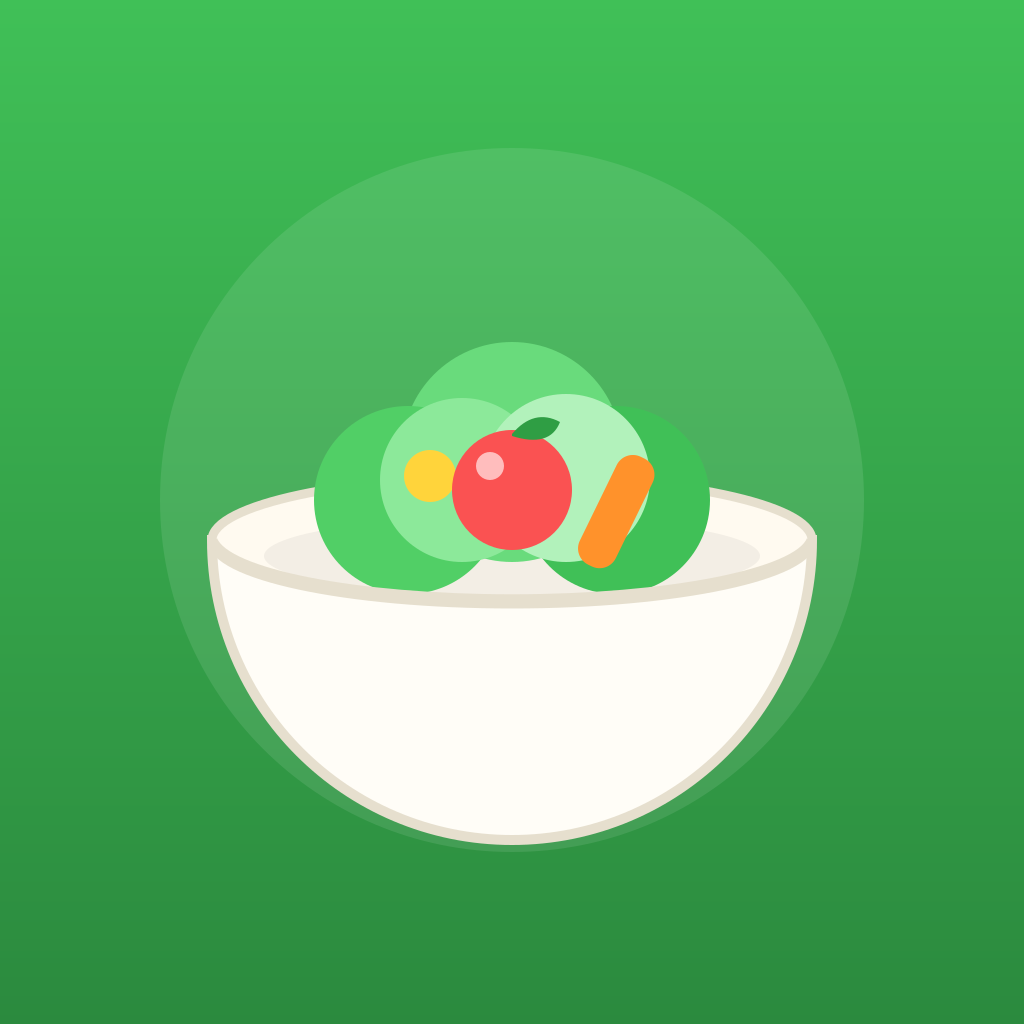
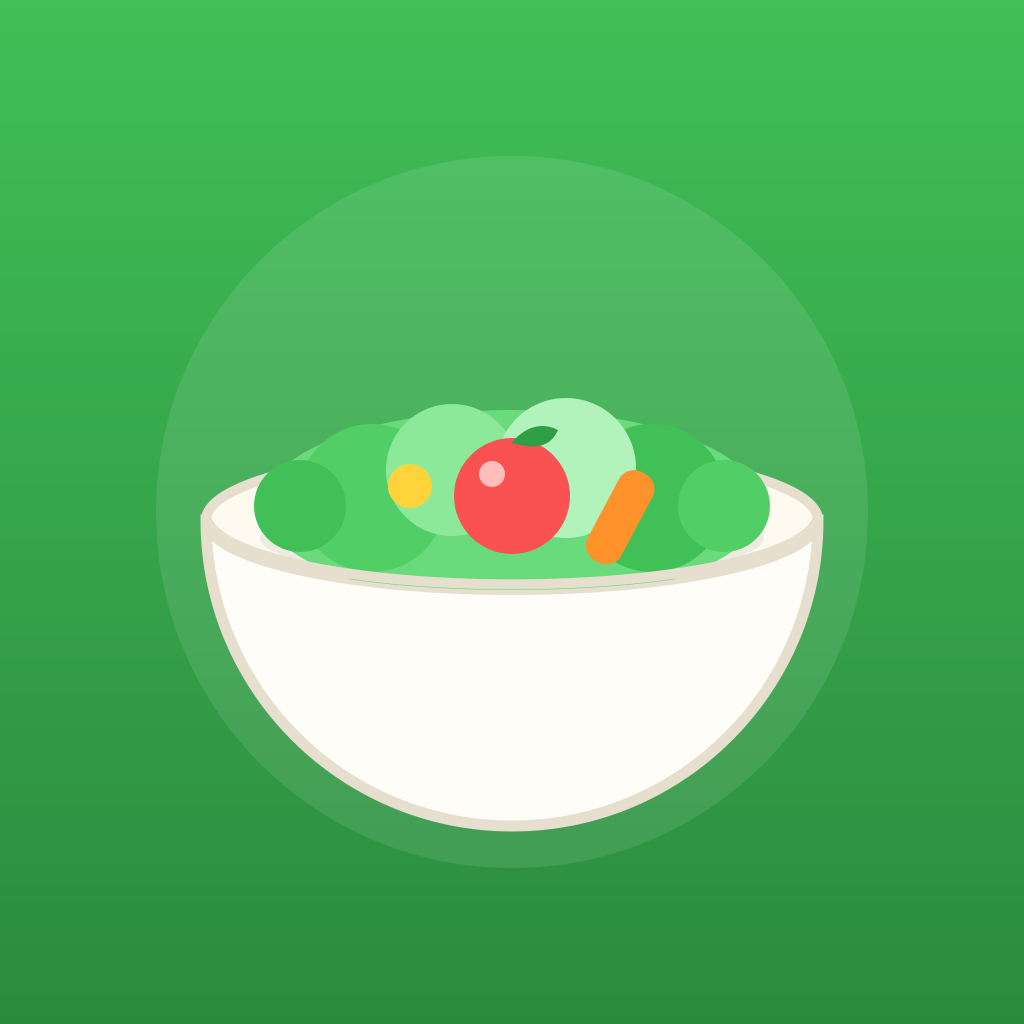
İkon: salata kâseyi dolduruyor (uçma giderildi) + ekstra özellikler
- İkon yeniden çizildi: derin açık kâse, ağzına kadar dolu alçak salata yığını;
  yiyecekler net biçimde kâsenin içinde durur
- Pişirme modu: tarif adımlarına dokununca tamamlandı olarak işaretlenir
- 🎲 Sürpriz: sonuç listesinden rastgele tarif aç
- Planı paylaş: haftalık planı paylaş/kopyala
- sw önbellek v8

https://claude.ai/code/session_01QzPAUaUjR7PLoG6sTmLNvq

Changed region(s): [[0.1875, 0.3125, 0.8125, 0.5938], [0.2188, 0.625, 0.7812, 0.8438]]

diff --git a/public/app.js b/public/app.js
@@ -39,6 +39,8 @@ let favorites = store.get("eviko_favorites", []);
 let shopping = store.get("eviko_shopping", []);
 let prefs = store.get("eviko_prefs", []);
 let history = store.get("eviko_history", []);
+let lastRecipes = [];
+let lastPlan = [];
 
 // ---- API adresi (web'de boş = göreli yol; APK'da ayarlanır) ----
 function apiBase() {
@@ -298,7 +300,9 @@ async function runPlan() {
 
 function renderPlan(data) {
   const days = (data && data.days) || [];
+  lastPlan = days;
   const list = el("plan-list");
+  el("btn-share-plan").classList.toggle("hidden", days.length === 0);
   if (days.length === 0) {
     list.innerHTML = '<div class="list-empty">Plan oluşturulamadı, tekrar dene.</div>';
     return;
@@ -318,6 +322,30 @@ function renderPlan(data) {
   list.querySelectorAll(".plan-card").forEach((c) =>
     c.addEventListener("click", () => openRecipeByTitle(days[Number(c.dataset.index)].title))
   );
+}
+
+// ---- Sürpriz tarif + planı paylaş ----
+el("btn-surprise").addEventListener("click", () => {
+  if (!lastRecipes.length) return;
+  const r = lastRecipes[Math.floor(Math.random() * lastRecipes.length)];
+  openRecipeByTitle(r.title);
+});
+
+el("btn-share-plan").addEventListener("click", sharePlan);
+async function sharePlan() {
+  if (!lastPlan.length) return;
+  const lines = ["📅 Haftalık Yemek Planı (Eviko)", ""];
+  lastPlan.forEach((d) =>
+    lines.push(`${d.day}: ${d.title}${d.description ? " — " + d.description : ""}`)
+  );
+  const text = lines.join("\n");
+  try {
+    if (navigator.share) await navigator.share({ title: "Haftalık Plan", text });
+    else {
+      await navigator.clipboard.writeText(text);
+      toast("Plan kopyalandı 📋");
+    }
+  } catch {}
 }
 
 async function runCalories() {
@@ -393,6 +421,7 @@ function renderResults(data) {
   }
 
   const recipes = data.recipes || [];
+  lastRecipes = recipes;
 
   // Eksik malzemeler (alışveriş listesi için)
   const missing = [...new Set(recipes.flatMap((r) => r.missingCommonIngredients || []))];
@@ -590,6 +619,9 @@ function renderRecipeDetail() {
   };
   el("btn-speak").onclick = () => toggleSpeak(r);
   el("btn-share").onclick = () => shareRecipe(r);
+  modal.querySelectorAll(".step-list li").forEach((li) =>
+    li.addEventListener("click", () => li.classList.toggle("done"))
+  );
   modal.querySelector(".modal-card").scrollTop = 0;
 }
 

diff --git a/public/index.html b/public/index.html
@@ -119,8 +119,13 @@
           <button id="btn-add-missing" class="btn btn-ghost small">🛒 Listeye ekle</button>
         </div>
 
-        <h2 class="recipes-title">Yapabileceğin yemekler</h2>
-        <p class="muted small">Bir yemeğe dokun, adım adım tarifini görelim.</p>
+        <div class="recipes-head">
+          <div>
+            <h2 class="recipes-title">Yapabileceğin yemekler</h2>
+            <p class="muted small">Bir yemeğe dokun, adım adım tarifini görelim.</p>
+          </div>
+          <button id="btn-surprise" class="btn btn-ghost small">🎲 Sürpriz</button>
+        </div>
         <div id="recipes" class="recipe-grid"></div>
       </section>
 
@@ -178,6 +183,7 @@
         </div>
         <p class="muted small">Bir güne dokun, tarifini aç.</p>
         <div id="plan-list" class="plan-list"></div>
+        <button id="btn-share-plan" class="btn btn-ghost small hidden">📤 Planı paylaş</button>
       </section>
     </main>
 

diff --git a/public/styles.css b/public/styles.css
@@ -1041,6 +1041,27 @@ h2 {
   font-size: 1.05rem;
 }
 
+/* ---------- Sürpriz başlık + pişirme modu ---------- */
+.recipes-head {
+  display: flex;
+  align-items: flex-start;
+  justify-content: space-between;
+  gap: 12px;
+}
+.recipes-head .recipes-title {
+  margin-top: 0;
+}
+.step-list li {
+  cursor: pointer;
+}
+.step-list li.done {
+  color: var(--muted);
+  text-decoration: line-through;
+}
+.step-list li.done::before {
+  background: var(--muted);
+}
+
 /* ---------- Footer ---------- */
 .footer {
   text-align: center;

diff --git a/public/sw.js b/public/sw.js
@@ -1,5 +1,5 @@
 // Eviko service worker — uygulama kabuğunu önbelleğe alır (PWA / çevrimdışı destek).
-const CACHE = "eviko-v7";
+const CACHE = "eviko-v8";
 const SHELL = [
   "/",
   "/index.html",
